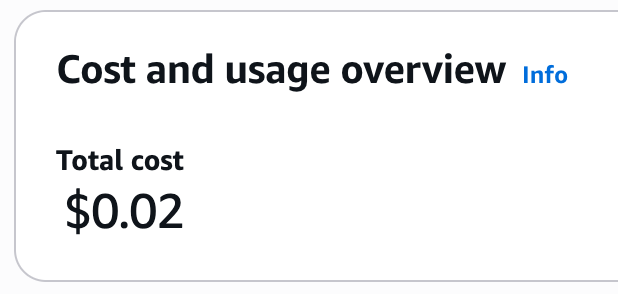
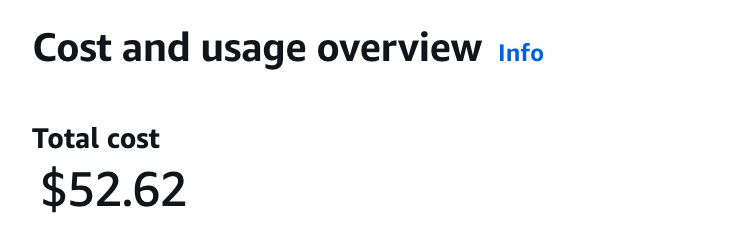
update documentation for AWS billing

Changed region(s): [[0.0, 0.0871, 0.9223, 0.9004], [0.0307, 0.9004, 1.0, 0.9585], [0.0307, 0.029, 1.0, 0.0871]]

diff --git a/docs/cloud/aws/lca0/billing/viewbilling.md b/docs/cloud/aws/lca0/billing/viewbilling.md
@@ -12,7 +12,7 @@ Four Points Technology (FPT) is our AWS reseller. They invoice you for your AWS 
 
 FPT provides us with the following discounts:
 
-* 4.5% discount on most AWS resources, excluding AWS Marketplace, S3 Glacier Deep Archive, and AWS Storage Deep Archive charges
+* Contract Discount on most AWS resources, excluding AWS Marketplace, S3 Glacier Deep Archive, and AWS Storage Deep Archive charges
 * Egress waiver for some traffic ([contact us](mailto:rc-help@colorado.edu) for additional details)
 
 ```{important}
@@ -41,22 +41,22 @@ Here's how to use AWS Cost Explorer to represent the charges you will see on an 
 
 1. Filter on the billing month.
    ```{image} images/cost-explorer-billing-month.png
-   :alt: Filter the date range to May 2025.
+   :alt: Filter the date range to July 2025.
    ```
 
 1. You’ll see the unfiltered cost at the top of the report. **This is NOT what you will be billed!**
    ```{image} images/cost-explorer-unfiltered.png
-   :alt: Unfiltered costs are $3,225.36.
+   :alt: Unfiltered costs are $21,675.23.
    ```
 
-1. Remove automatically applied refunds by adding the filter `Charge Type → Excludes → Refund` under `More Filters`.
+1. Remove automatically applied refunds by adding the filter `Charge Type → Excludes → Refund, Solutions Provider Program Discount ` under `More Filters`.
    ```{image} images/cost-explorer-exclude-refunds.png
-   :alt: Set the Charge Type filter to exclude refunds.
+   :alt: Set the Charge Type filter to exclude refunds and solution provider program discounts.
    ```
 
 1. Now you’ll see the raw costs for that billing period.
    ```{image} images/cost-explorer-raw.png
-   :alt: Raw costs are $3,381.06.
+   :alt: Raw costs are $22,669.03.
    ```
 
 1. Add a filter to remove AWS Marketplace costs. Set `Billing Entity → Excludes → AWS Marketplace`.
@@ -64,28 +64,39 @@ Here's how to use AWS Cost Explorer to represent the charges you will see on an 
    :alt: Set the Billing entity filter to exclude AWS Marketplace.
    ```
 
-1. Add a filter to remove Deep Archive costs. Set `API Operation → Excludes → (everything matching DeepArchive)`.
+1. Add a filter to remove S3: Storage - Glacier Deep Archive. Set `Usage type group → Excludes → S3: Storage - Glacier Deep Archive`.
    ```{image} images/cost-explorer-exclude-deeparchive.png
-   :alt: Set the API Operation filter to exclude DeepArchiveObjectOverhead, DeepArchiveS3ObjectOverhead, and DeepArchiveStorage.
+   :alt: Set the Usage type group filter to exclude S3: Storage - Glacier Deep Archive.
+   ```
+1. Add a filter to remove OCBLateFee and Support (Enterprise). Set `Service-> Excludes →  OCBLateFee and Support (Enterprise)`.
+   ```{image} images/cost-explorer-exclude-ocblatefee.png
+   :alt: Set the Service filter to exclude OCBLateFee and Support (Enterprise).
    ```
 
+1. Add a filter to remove all items matching "Xfer-Out-Bytes" and "Transfer-Out-Bytes". Set `Usage type → Excludes → all items matching “Xfer-Out-Bytes” and “Transfer-Out-Bytes”`.
+   ```{image} images/cost-explorer-exclude-xferoutbytes.png
+   :alt: Set the Usage type filter to exclude all items matching “Xfer-Out-Bytes” and “Transfer-Out-Bytes”.
+   ```
+  ```{image} images/cost-explorer-exclude-transferoutbytes.png
+   :alt: Set the Usage type filter to exclude all items “Transfer-Out-Bytes”.
+   ```
 1. Now your total will show the AWS resources eligible for discount.
    ```{image} images/cost-explorer-discount-eligible.png
-   :alt: Costs eligible for discount are $2,036.25.
+   :alt: Costs eligible for discount are $22,001.87.
    ```
 
-1. Manually apply the 4.5% discount on the eligible costs from the previous step. In this example, the total discounted AWS resource costs are $1,944.62.
+1. Manually apply the discount in the contract(here we are considering a 1%) on the eligible costs from the previous step. In this example, the total discounted AWS resource costs are $1,944.62.
    ```{math}
-   Discounted AWS Resource Costs = Discount Eligible Costs - ( Discount Eligible Costs \times 4.5\% )
+   Discounted AWS Resource Costs = Discount Eligible Costs \times (100\% - 1\%)
    ```
    ```{math}
-   $1,944.62 = $2,036.25 - ( $2,036.25 \times 0.045 )
+   $21,781.85 = $22,001.87 \times 0.99
    ```
    ```{note}
    Note this number as `Discounted AWS Resource Costs` for future use below.
    ```
 
-1. Next we need to add AWS Marketplace and Deep Archive costs that are **NOT** eligible for discounts. Remove both the `Billing Entity` and `API Operations` filters. Your total should again show the raw costs ($3,381.06).
+1. Next we need to add AWS Marketplace and Deep Archive costs that are **NOT** eligible for discounts. Remove both the `Billing Entity` and `Usage type group` filters. Your total should again show the raw costs ($3,381.06).
    ```{important}
    Do not remove the `Charge Type` filter.
    ```
@@ -97,7 +108,7 @@ Here's how to use AWS Cost Explorer to represent the charges you will see on an 
 
 1. Your total should now show just AWS Marketplace costs.
    ```{image} images/cost-explorer-marketplace.png
-   :alt: AWS Marketplace costs are $1,344.78.
+   :alt: AWS Marketplace costs are $83.20.
    ```
    ```{note}
    Note this number as `AWS Marketplace Costs` for future use below.
@@ -105,14 +116,14 @@ Here's how to use AWS Cost Explorer to represent the charges you will see on an 
 
 1. Remove the `Billing Entity` filter.
 
-1. Determine Deep Archive costs. Add a filter for `API Operation → Includes → (everything matching DeepArchive)`.
+1. Determine Deep Archive costs. Add a filter for `Usage Type group → Includes → S3: Storage - Glacier Deep Archive`.
    ```{image} images/cost-explorer-include-deeparchive.png
-   :alt: Set the API Operation filter to include only DeepArchiveObjectOverhead, DeepArchiveS3ObjectOverhead, and DeepArchiveStorage.
+   :alt: Set the Usage Type group filter to include only S3: Storage - Glacier Deep Archive.
    ```
 
 1. You’ll see the total of just the Deep Archive costs.
    ```{image} images/cost-explorer-deeparchive.png
-   :alt: AWS Deep Archive costs are $0.02.
+   :alt: AWS Deep Archive costs are $52.62.
    ```
    ```{note}
    Note this number as `AWS Deep Archive Costs` for future use below.
@@ -123,7 +134,7 @@ Here's how to use AWS Cost Explorer to represent the charges you will see on an 
    Account Total = Discounted AWS Resource Costs + AWS Marketplace Costs + AWS Deep Archive Costs
    ```
    ```{math}
-   $3,289.42 = $1,944.62 + $1,344.78 + $0.02
+   $21,917.67 = $21,781.85 + $83.20 + $52.62
    ```
 
 1. Repeat this process for each of your accounts. The total across all accounts that use the same PO should match the invoice you receive in the [CU Marketplace](https://www.cu.edu/uis/service-catalog/cu-marketplace).

diff --git a/docs/cloud/aws/lca1/billing/viewbilling.md b/docs/cloud/aws/lca1/billing/viewbilling.md
@@ -12,7 +12,7 @@ Four Points Technology (FPT) is our AWS reseller. They invoice you for your AWS 
 
 FPT provides us with the following discounts:
 
-* 4.5% discount on most AWS resources, excluding AWS Marketplace, S3 Glacier Deep Archive, and AWS Storage Deep Archive charges
+* Contract Discount on most AWS resources, excluding AWS Marketplace, S3 Glacier Deep Archive, and AWS Storage Deep Archive charges
 * Egress waiver for some traffic ([contact us](mailto:rc-help@colorado.edu) for additional details)
 
 ```{important}
@@ -41,22 +41,22 @@ Here's how to use AWS Cost Explorer to represent the charges you will see on an 
 
 1. Filter on the billing month.
    ```{image} images/cost-explorer-billing-month.png
-   :alt: Filter the date range to May 2025.
+   :alt: Filter the date range to July 2025.
    ```
 
 1. You’ll see the unfiltered cost at the top of the report. **This is NOT what you will be billed!**
    ```{image} images/cost-explorer-unfiltered.png
-   :alt: Unfiltered costs are $3,225.36.
+   :alt: Unfiltered costs are $21,675.23.
    ```
 
-1. Remove automatically applied refunds by adding the filter `Charge Type → Excludes → Refund` under `More Filters`.
+1. Remove automatically applied refunds by adding the filter `Charge Type → Excludes → Refund, Solutions Provider Program Discount ` under `More Filters`.
    ```{image} images/cost-explorer-exclude-refunds.png
-   :alt: Set the Charge Type filter to exclude refunds.
+   :alt: Set the Charge Type filter to exclude refunds and solution provider program discounts.
    ```
 
 1. Now you’ll see the raw costs for that billing period.
    ```{image} images/cost-explorer-raw.png
-   :alt: Raw costs are $3,381.06.
+   :alt: Raw costs are $22,669.03.
    ```
 
 1. Add a filter to remove AWS Marketplace costs. Set `Billing Entity → Excludes → AWS Marketplace`.
@@ -64,28 +64,39 @@ Here's how to use AWS Cost Explorer to represent the charges you will see on an 
    :alt: Set the Billing entity filter to exclude AWS Marketplace.
    ```
 
-1. Add a filter to remove Deep Archive costs. Set `API Operation → Excludes → (everything matching DeepArchive)`.
+1. Add a filter to remove S3: Storage - Glacier Deep Archive. Set `Usage type group → Excludes → S3: Storage - Glacier Deep Archive`.
    ```{image} images/cost-explorer-exclude-deeparchive.png
-   :alt: Set the API Operation filter to exclude DeepArchiveObjectOverhead, DeepArchiveS3ObjectOverhead, and DeepArchiveStorage.
+   :alt: Set the Usage type group filter to exclude S3: Storage - Glacier Deep Archive.
+   ```
+1. Add a filter to remove OCBLateFee and Support (Enterprise). Set `Service-> Excludes →  OCBLateFee and Support (Enterprise)`.
+   ```{image} images/cost-explorer-exclude-ocblatefee.png
+   :alt: Set the Service filter to exclude OCBLateFee and Support (Enterprise).
    ```
 
+1. Add a filter to remove all items matching "Xfer-Out-Bytes" and "Transfer-Out-Bytes". Set `Usage type → Excludes → all items matching “Xfer-Out-Bytes” and “Transfer-Out-Bytes”`.
+   ```{image} images/cost-explorer-exclude-xferoutbytes.png
+   :alt: Set the Usage type filter to exclude all items matching “Xfer-Out-Bytes” and “Transfer-Out-Bytes”.
+   ```
+  ```{image} images/cost-explorer-exclude-transferoutbytes.png
+   :alt: Set the Usage type filter to exclude all items “Transfer-Out-Bytes”.
+   ```
 1. Now your total will show the AWS resources eligible for discount.
    ```{image} images/cost-explorer-discount-eligible.png
-   :alt: Costs eligible for discount are $2,036.25.
+   :alt: Costs eligible for discount are $22,001.87.
    ```
 
-1. Manually apply the 4.5% discount on the eligible costs from the previous step. In this example, the total discounted AWS resource costs are $1,944.62.
+1. Manually apply the discount in the contract(here we are considering a 1%) on the eligible costs from the previous step. In this example, the total discounted AWS resource costs are $1,944.62.
    ```{math}
-   Discounted AWS Resource Costs = Discount Eligible Costs - ( Discount Eligible Costs \times 4.5\% )
+   Discounted AWS Resource Costs = Discount Eligible Costs \times (100\% - 1\%)
    ```
    ```{math}
-   $1,944.62 = $2,036.25 - ( $2,036.25 \times 0.045 )
+   $21,781.85 = $22,001.87 \times 0.99
    ```
    ```{note}
    Note this number as `Discounted AWS Resource Costs` for future use below.
    ```
 
-1. Next we need to add AWS Marketplace and Deep Archive costs that are **NOT** eligible for discounts. Remove both the `Billing Entity` and `API Operations` filters. Your total should again show the raw costs ($3,381.06).
+1. Next we need to add AWS Marketplace and Deep Archive costs that are **NOT** eligible for discounts. Remove both the `Billing Entity` and `Usage type group` filters. Your total should again show the raw costs ($3,381.06).
    ```{important}
    Do not remove the `Charge Type` filter.
    ```
@@ -97,7 +108,7 @@ Here's how to use AWS Cost Explorer to represent the charges you will see on an 
 
 1. Your total should now show just AWS Marketplace costs.
    ```{image} images/cost-explorer-marketplace.png
-   :alt: AWS Marketplace costs are $1,344.78.
+   :alt: AWS Marketplace costs are $83.20.
    ```
    ```{note}
    Note this number as `AWS Marketplace Costs` for future use below.
@@ -105,14 +116,14 @@ Here's how to use AWS Cost Explorer to represent the charges you will see on an 
 
 1. Remove the `Billing Entity` filter.
 
-1. Determine Deep Archive costs. Add a filter for `API Operation → Includes → (everything matching DeepArchive)`.
+1. Determine Deep Archive costs. Add a filter for `Usage Type group → Includes → S3: Storage - Glacier Deep Archive`.
    ```{image} images/cost-explorer-include-deeparchive.png
-   :alt: Set the API Operation filter to include only DeepArchiveObjectOverhead, DeepArchiveS3ObjectOverhead, and DeepArchiveStorage.
+   :alt: Set the Usage Type group filter to include only S3: Storage - Glacier Deep Archive.
    ```
 
 1. You’ll see the total of just the Deep Archive costs.
    ```{image} images/cost-explorer-deeparchive.png
-   :alt: AWS Deep Archive costs are $0.02.
+   :alt: AWS Deep Archive costs are $52.62.
    ```
    ```{note}
    Note this number as `AWS Deep Archive Costs` for future use below.
@@ -123,7 +134,7 @@ Here's how to use AWS Cost Explorer to represent the charges you will see on an 
    Account Total = Discounted AWS Resource Costs + AWS Marketplace Costs + AWS Deep Archive Costs
    ```
    ```{math}
-   $3,289.42 = $1,944.62 + $1,344.78 + $0.02
+   $21,917.67 = $21,781.85 + $83.20 + $52.62
    ```
 
 1. Repeat this process for each of your accounts. The total across all accounts that use the same PO should match the invoice you receive in the [CU Marketplace](https://www.cu.edu/uis/service-catalog/cu-marketplace).
